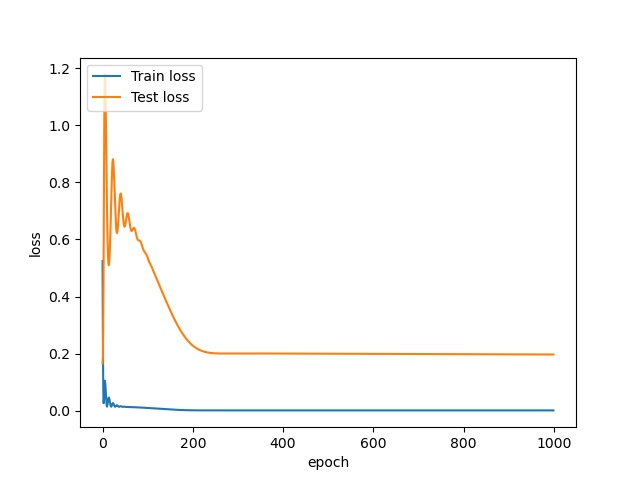
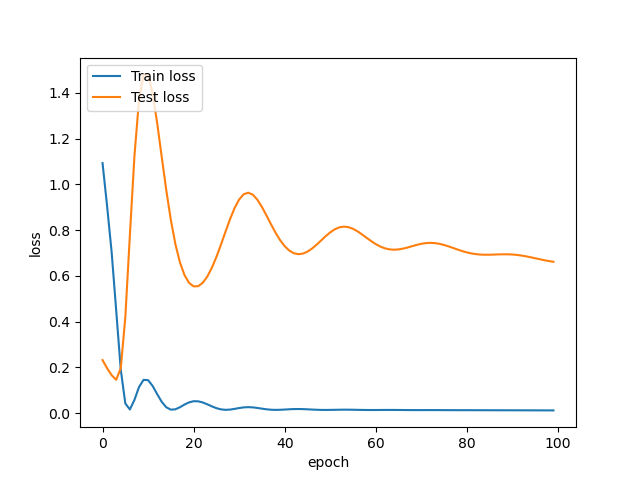
Refac: added accuracy score etc.

diff --git a/corona-lstm-model.py b/corona-lstm-model.py
@@ -10,6 +10,7 @@ import matplotlib.pyplot as plt
 from sklearn.preprocessing import MinMaxScaler
 # Import floor function from math module
 from math import floor
+from sklearn.metrics import accuracy_score
 
 from extract_ssi_data import *
 
@@ -22,9 +23,9 @@ device = torch.device('cpu')
 # Percentage of test size
 test_size_pct = 0.20
 num_epochs = 1000
-learning_rate = 0.05
+learning_rate = 0.04
 input_size = 1
-hidden_size = 3
+hidden_size = 6
 num_layers = 1
 seq_length = 14
 num_classes = 1
@@ -36,7 +37,7 @@ hidden_size_range = np.arange(1,7,1)
 # Print each 10th epoch value
 epoch_print_interval = 10
 
-# Initialize counter 
+# Initialize counter
 i = 1
 
 
@@ -156,16 +157,12 @@ y_test = torch.Tensor(np.array(y[train_size:len(y)])).to(device)
 
 # Loop over our desired ranges
 for learning_rate in learning_rate_range:
-        
     for hidden_size in hidden_size_range:
-        
-
         # Create LSTM object
         lstm = LSTM(seq_length, num_classes, input_size, hidden_size, num_layers)
-
         # Mean squared error loss function defined
-        loss_fn = torch.nn.MSELoss()   
-        # Adam optimizer is used 
+        loss_fn = torch.nn.MSELoss()
+        # Adam optimizer is used
         optimizer = torch.optim.Adam(lstm.parameters(), lr=learning_rate)
 
 
@@ -177,27 +174,31 @@ for learning_rate in learning_rate_range:
             y_pred = lstm(x_train)
             optimizer.zero_grad()
 
-            
             # Get loss function
             loss = loss_fn(y_pred, y_train)
-            
+
             # Make prediciton
-            y_test_pred = lstm(x_test) 
+            y_test_pred = lstm(x_test)
             # Get loss function
             test_loss = loss_fn(y_test_pred, y_test)
 
+            # test_accuracy = np.mean(y_test.detach().numpy() == p_test)
+
             # Backward propagate
             loss.backward()
-            
+
             optimizer.step()
 
             # Save loss
             nn_log["train_loss"].append(loss.item())
             nn_log["test_loss"].append(test_loss.item())
+            # Save accuracy
+            # nn_log["accuracy"].append(test_accuracy*100)
 
             # Print loss
             if epoch % 10 == 0:
                 print("Epoch: %d, Train loss: %1.5f, Test loss: %1.5f" % (epoch, loss.item(), test_loss.item()))
+
 
         # Plot loss by epochs
         plt.plot(nn_log["train_loss"])
@@ -205,14 +206,12 @@ for learning_rate in learning_rate_range:
         plt.ylabel('loss')
         plt.xlabel('epoch')
         plt.legend(["Train loss", "Test loss"], loc='upper left')
-        plt.savefig("corona-graphs/{}_loss.png".format(i))
-        # plt.show()
-        plt.clf()
-
+        # plt.savefig("corona-graphs/{}_loss.png".format(i))
+        plt.show()
+        # plt.clf()
 
         # Plot train and predict data
         train_predict = lstm(x_data)
-
         data_predict = train_predict.data.numpy()
         dataY_plot = y_data.data.numpy()
 
@@ -224,10 +223,9 @@ for learning_rate in learning_rate_range:
         plt.plot(dataY_plot)
         plt.plot(data_predict)
         plt.suptitle('Time-Series Prediction')
-        plt.savefig("corona-graphs/{}_pred.png".format(i))
-
-        plt.clf()
-        # plt.show()
+        # plt.savefig("corona-graphs/{}_pred.png".format(i))
+        # plt.clf()
+        plt.show()
 
 
         file_object = open('corona-graphs/tests.txt', 'a')
@@ -239,10 +237,14 @@ for learning_rate in learning_rate_range:
         file_object.write("\n Num classes: {}".format(num_classes))
         file_object.write("\n Input size: {}".format(input_size))
         file_object.write("\n Loss: ")
-       
+
         for ep in np.arange(0, num_epochs, epoch_print_interval):
             file_object.write("\n   Epoch: {}, Train loss: {}, Test loss: {}".format(ep, nn_log["train_loss"][ep], nn_log["test_loss"][ep]))
         file_object.write("\n \n")
         file_object.close()
 
         i += 1
+
+        p_test = lstm(x_test).detach().numpy()
+        test_accuracy = np.mean((abs(y_test.detach().numpy() - p_test) / y_test.detach().numpy()) * 100)
+        print(f'Accuracy: {test_accuracy}')
